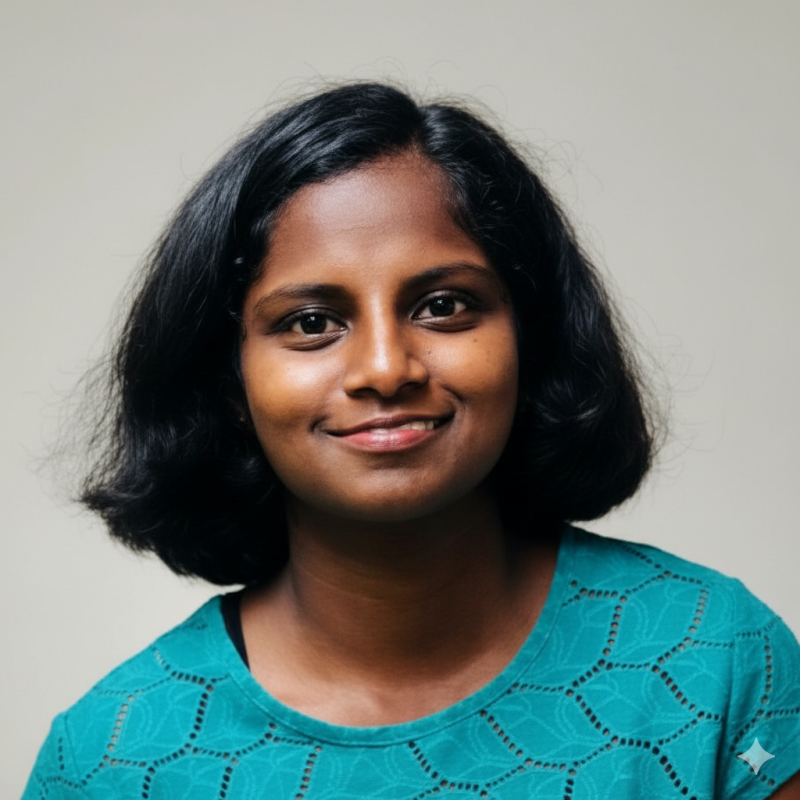
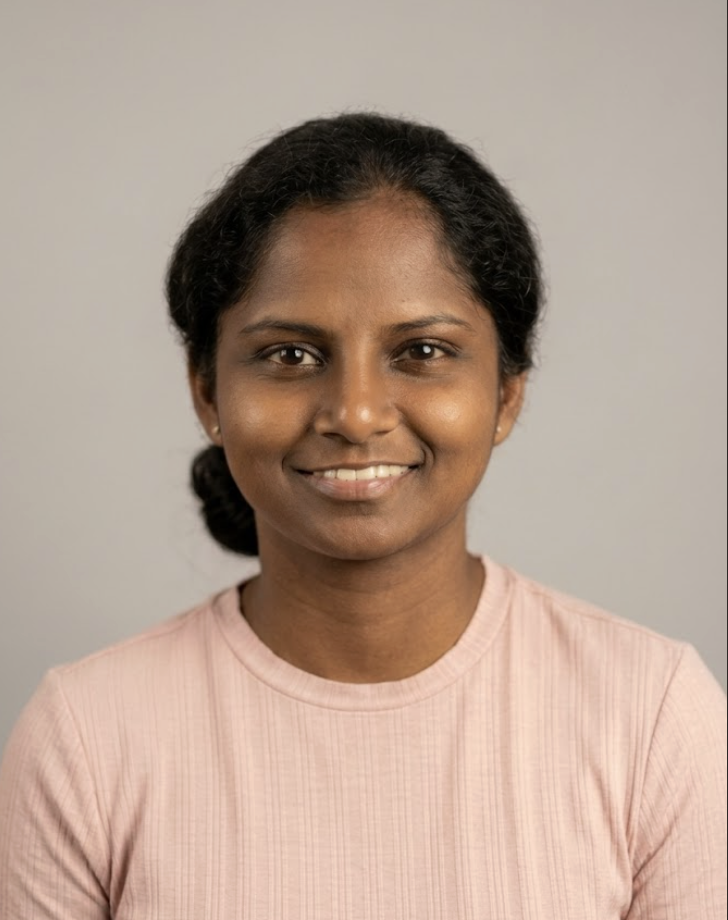
feat: add News section, move larger headshot into home page, update footer to 2026

diff --git a/index.html b/index.html
@@ -17,7 +17,6 @@
 <body>
     <nav>
         <div class="nav-container">
-            <img src="assets/namya_headshot.png" alt="Namya LG" class="headshot">
             <ul>
                 <li><a href="index.html">Home</a></li>
                 <li><a href="projects.html">Pro(jects|ducts)</a></li>
@@ -27,6 +26,7 @@
     </nav>
 
     <main>
+        <img src="assets/namya_headshot.png" alt="Namya LG" class="profile-photo">
         <h1>Namya LG</h1>
         <p class="thesis">My thesis: We only have so much time on 🌍, live every second to the fullest :D.</p>
         <div class="social-section">
@@ -70,9 +70,23 @@
             </div>
         </div>
         <p class="email-contact">or drop me an email at namyalg [at] gmail [dot] com</p>
+
+        <section class="news">
+            <h2>News</h2>
+            <table>
+                <tr>
+                    <th scope="row">Aug 2026</th>
+                    <td>Started the <a href="https://www.ri.cmu.edu/education/academic-programs/master-of-science-robotics/" target="_blank" rel="noopener noreferrer">Master of Science in Robotics (MSR)</a> at CMU</td>
+                </tr>
+                <tr>
+                    <th scope="row">Aug 2026</th>
+                    <td>Recipient of the <a href="https://www.jntataendowment.org/" target="_blank" rel="noopener noreferrer">J.N. Tata Endowment</a> scholarship (highest award amount)</td>
+                </tr>
+            </table>
+        </section>
     </main>
     <footer>
-        <p>&copy; 2025 Namyalg. All rights reserved.</p>
+        <p>&copy; 2026 Namyalg. All rights reserved.</p>
     </footer>
 </body>
 </html>

diff --git a/style.css b/style.css
@@ -28,17 +28,15 @@ nav {
     gap: 40px;
 }
 
-.headshot {
-    width: 70px;
-    height: 70px;
+.profile-photo {
+    display: block;
+    width: 180px;
+    height: 180px;
     border-radius: 50%;
     object-fit: cover;
+    object-position: 50% 30%;
     border: 2px solid #000;
-    transition: transform 0.3s ease;
-}
-
-.headshot:hover {
-    transform: scale(1.05);
+    margin: 0 auto 24px;
 }
 
 nav ul {
@@ -114,6 +112,42 @@ p {
     text-align: center;
     margin-top: 20px;
     color: #666;
+}
+
+.news {
+    max-width: 600px;
+    margin: 50px auto 0;
+}
+
+.news h2 {
+    font-size: 28px;
+    margin-bottom: 15px;
+}
+
+.news table {
+    border-collapse: collapse;
+    font-size: 18px;
+}
+
+.news th {
+    font-weight: 600;
+    text-align: left;
+    vertical-align: top;
+    white-space: nowrap;
+    padding: 4px 24px 4px 0;
+}
+
+.news td {
+    padding: 4px 0;
+}
+
+.news a {
+    color: #4285F4;
+    text-decoration: none;
+}
+
+.news a:hover {
+    text-decoration: underline;
 }
 
 .social-section {

diff --git a/publications.html b/publications.html
@@ -16,7 +16,6 @@
 <body>
     <nav>
         <div class="nav-container">
-            <img src="assets/namya_headshot.png" alt="Namya LG" class="headshot">
             <ul>
                 <li><a href="index.html">Home</a></li>
                 <li><a href="projects.html">Pro(jects|ducts)</a></li>
@@ -57,7 +56,7 @@
     </main>
 
     <footer>
-        <p>&copy; 2025 Namyalg. All rights reserved.</p>
+        <p>&copy; 2026 Namyalg. All rights reserved.</p>
     </footer>
 </body>
 </html>

diff --git a/projects.html b/projects.html
@@ -17,7 +17,6 @@
 <body>
     <nav>
         <div class="nav-container">
-            <img src="assets/namya_headshot.png" alt="Namya LG" class="headshot">
             <ul>
                 <li><a href="index.html">Home</a></li>
                 <li><a href="projects.html">Pro(jects|ducts)</a></li>
@@ -85,7 +84,7 @@
     </main>
 
     <footer>
-        <p>&copy; 2025 Namyalg. All rights reserved.</p>
+        <p>&copy; 2026 Namyalg. All rights reserved.</p>
     </footer>
 
     <script>

diff --git a/about.html b/about.html
@@ -16,7 +16,6 @@
 <body>
     <nav>
         <div class="nav-container">
-            <img src="assets/namya_headshot.png" alt="Namya LG" class="headshot">
             <ul>
                 <li><a href="index.html">Home</a></li>
                 <li><a href="about.html">About</a></li>
@@ -46,7 +45,7 @@
     </main>
 
     <footer>
-        <p>&copy; 2025 Namya LG. All rights reserved.</p>
+        <p>&copy; 2026 Namya LG. All rights reserved.</p>
     </footer>
 </body>
 </html>
